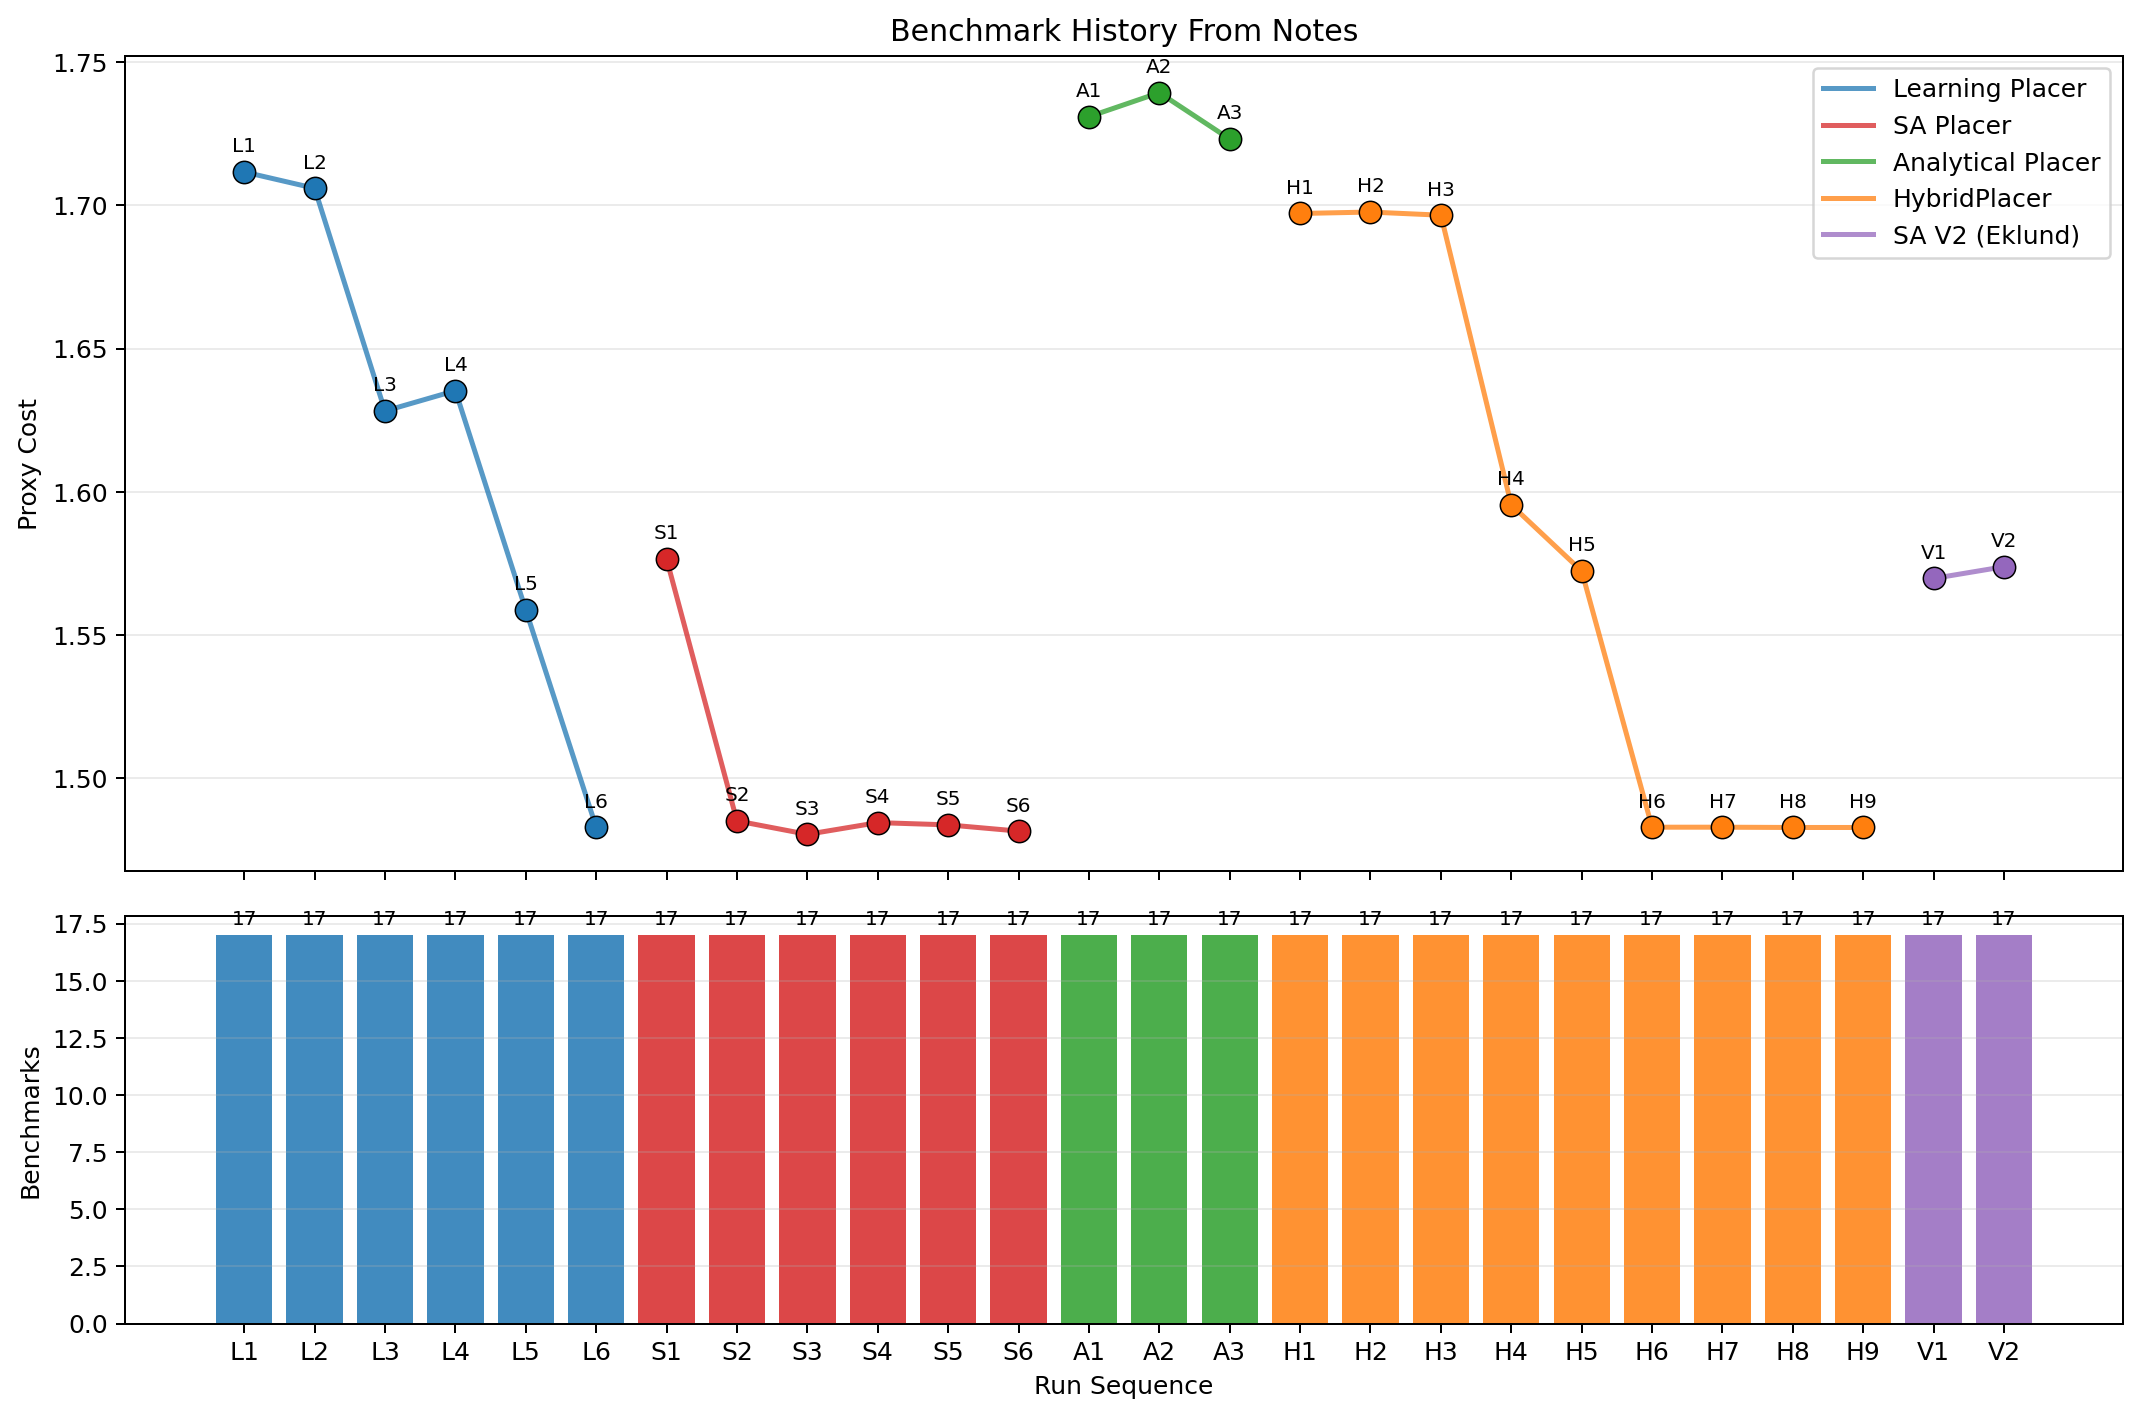
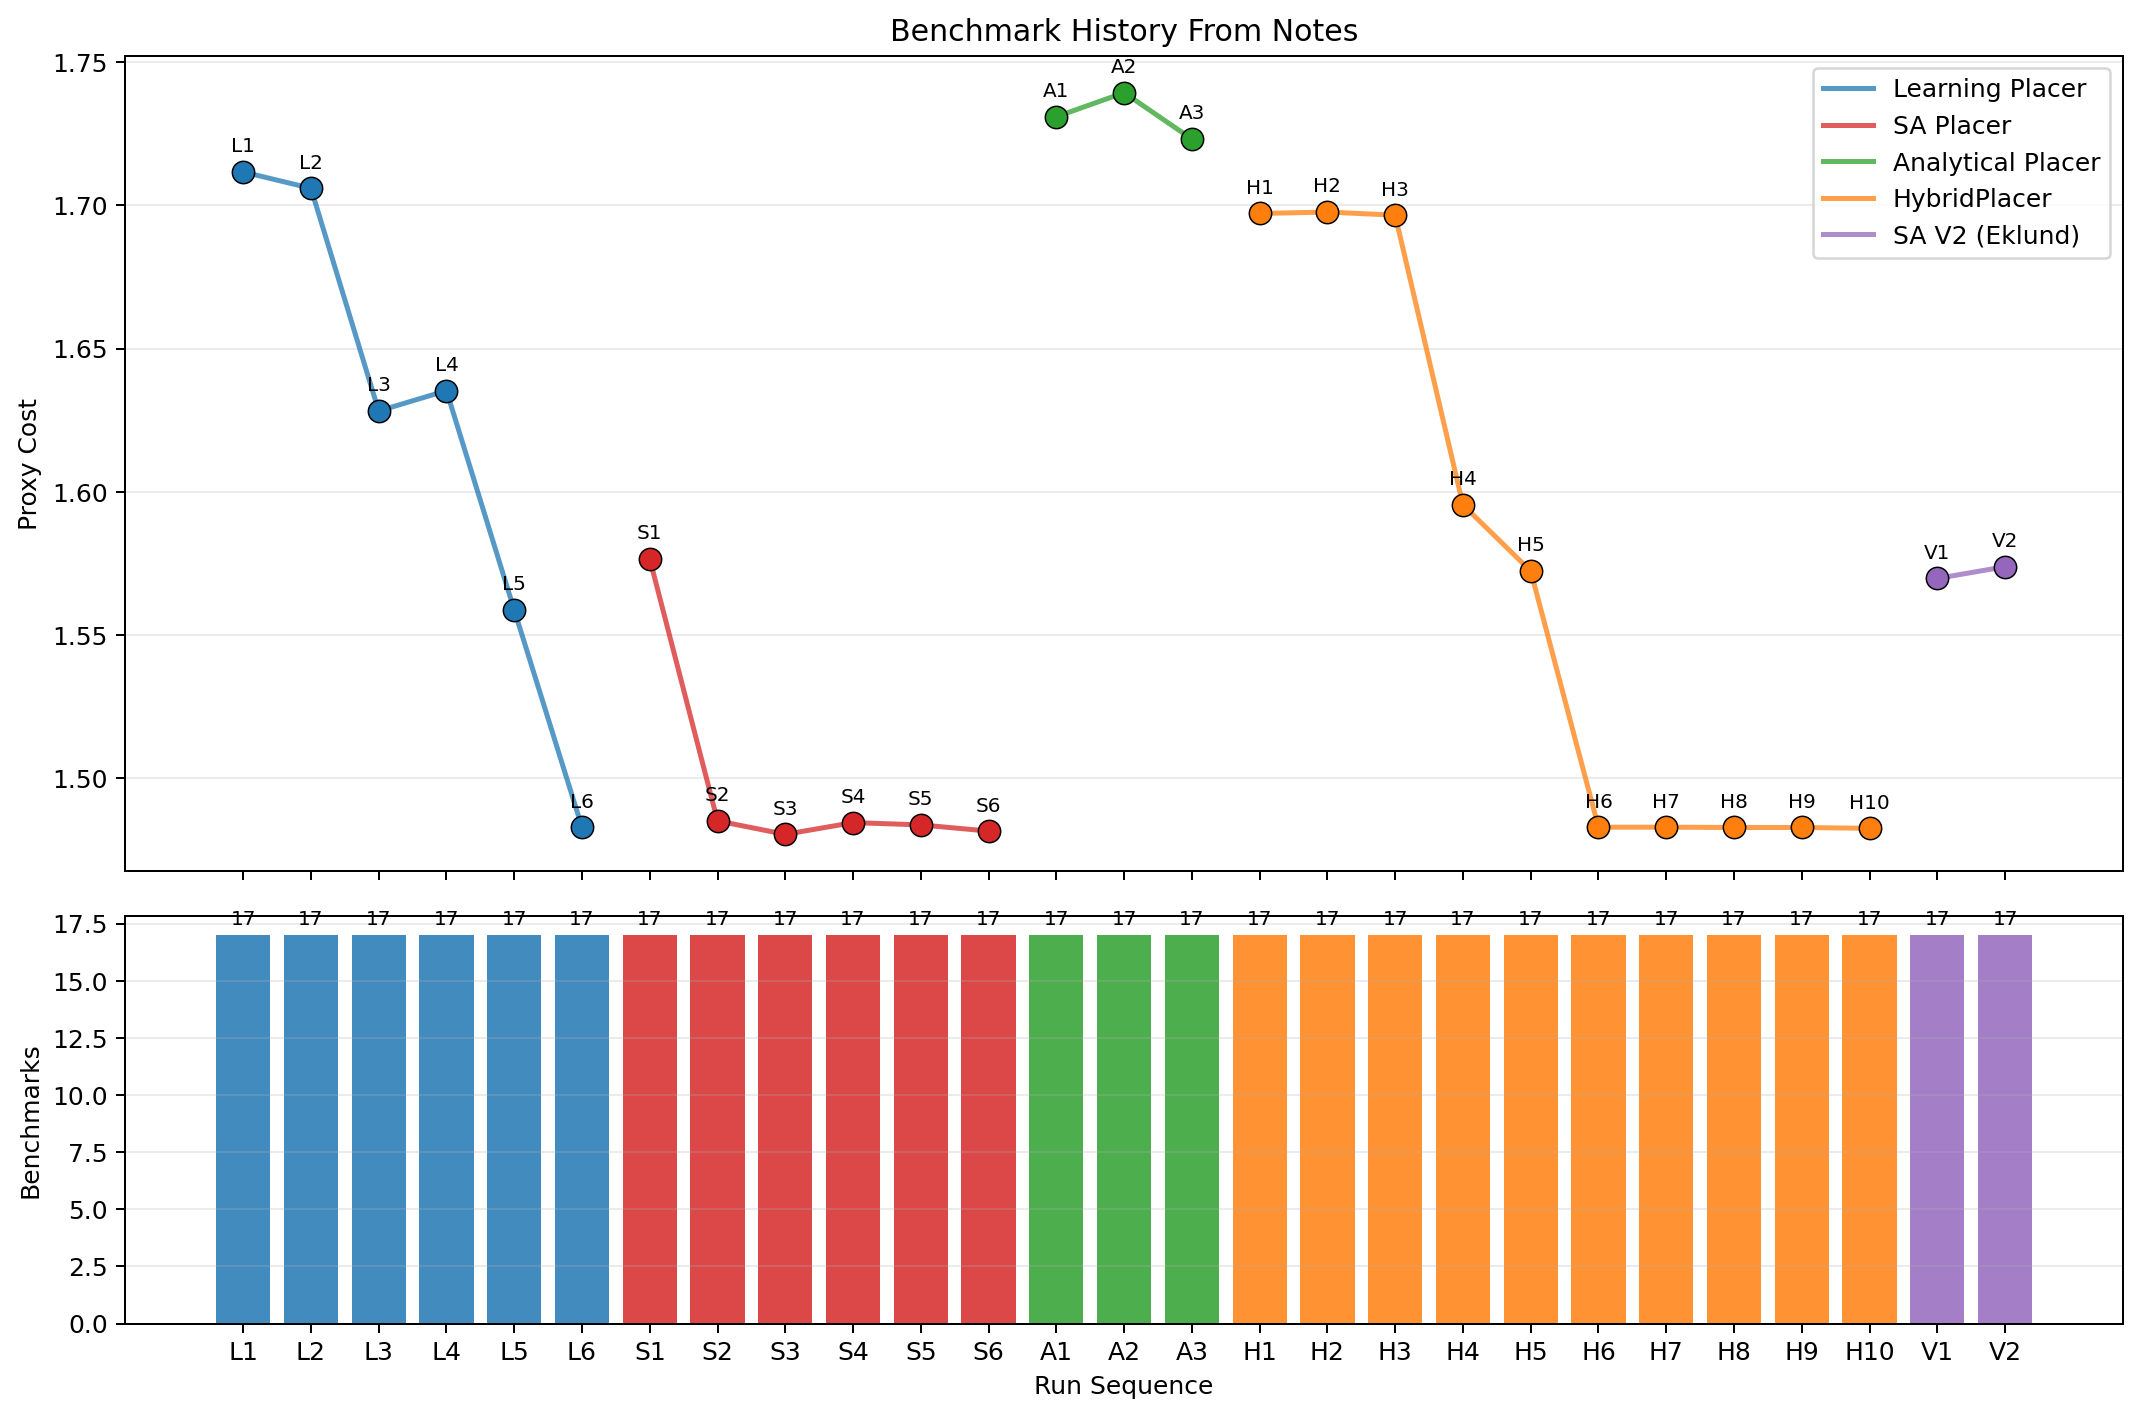
Update benchmark history and documentation for HybridPlacer v10, including multi-seed early pipeline improvements

diff --git a/notes/(Hybrid method)novaknotes.md b/notes/(Hybrid method)novaknotes.md
@@ -755,3 +755,113 @@ Total runtime: **1452.63s** (~24.2 min for all 17 benchmarks)
 | 4 | HybridPlacer v7 | 1.4828 |
 | 5 | HybridPlacer v5 | 1.5723 |
 | 6 | SA (baseline) | 2.1251 |
+
+---
+
+## 2026-04-10 — H10 (v10): Multi-Seed Early Pipeline
+
+Added multi-seed early pipeline on top of the v9 hotspot evacuation + ILS kicks pipeline.
+
+**Key change**: The top-K analytical candidates (ranked by legalized proxy) each get
+pushed all the way through pre-SA GPU smoothing, main SA (300K), and congestion SA (40K),
+with their own random seeds so the SA move streams diverge. The best pipeline output by
+full proxy is kept for the late stages. This addresses the observation from v9 that every
+late-stage local move (greedy, swap, cluster, ultrafine, hotspot, ILS) has exhausted its
+reach — the remaining headroom is diversity in the starting basin, which only the
+analytical+SA stages can produce.
+
+Pipeline (v10):
+1. Analytical: 7 candidates × 2500 Adam steps, ranked by legalized proxy.
+2. Multi-seed early loop (top-K=3 analytical candidates):
+   pre-SA GPU smoothing → SA (300K) → congestion SA (40K), distinct seed per candidate;
+   best full-proxy pipeline output is kept.
+3. Greedy flip → GPU refine → Greedy refine → Pairwise swap → Greedy flip
+4. GPU polish → Fine greedy → Cluster translation → Micro GPU polish
+5. Proxy local search → Ultrafine refinement
+6. Congestion hotspot evacuation (top-5% cells → cold cells)
+7. ILS random kicks (3 kicks × 15% low-conn macros)
+8. Soft recenter
+
+### How to replicate
+
+```bash
+PLACER_METHOD=hybrid uv run evaluate submissions/placer.py --all --no-media
+```
+
+Or directly:
+
+```bash
+uv run evaluate submissions/hybrid_placer.py --all --no-media
+```
+
+All benchmarks: **VALID (zero overlaps)**
+Total runtime: **1529.60s** (~25.5 min for all 17 benchmarks)
+
+| Benchmark | v10 Proxy | SA Baseline | RePlAce |  vs SA | vs RePlAce | v9 Proxy | Change | Overlaps |
+|-----------|-----------|-------------|---------|--------|------------|----------|--------|----------|
+| ibm01     |    1.1167 |      1.3166 |  0.9976 | +15.2% |     -11.9% |   1.1167 |   0.0% |        0 |
+| ibm02     |    1.5932 |      1.9072 |  1.8370 | +16.5% |     +13.3% |   1.5970 |  -0.2% |        0 |
+| ibm03     |    1.3877 |      1.7401 |  1.3222 | +20.3% |      -5.0% |   1.3886 |  -0.1% |        0 |
+| ibm04     |    1.3922 |      1.5037 |  1.3024 |  +7.4% |      -6.9% |   1.3922 |   0.0% |        0 |
+| ibm06     |    1.6923 |      2.5057 |  1.6187 | +32.5% |      -4.5% |   1.6923 |   0.0% |        0 |
+| ibm07     |    1.4864 |      2.0229 |  1.4633 | +26.5% |      -1.6% |   1.4864 |   0.0% |        0 |
+| ibm08     |    1.5222 |      1.9239 |  1.4285 | +20.9% |      -6.6% |   1.5222 |   0.0% |        0 |
+| ibm09     |    1.1027 |      1.3875 |  1.1194 | +20.5% |      +1.5% |   1.1027 |   0.0% |        0 |
+| ibm10     |    1.3697 |      2.1108 |  1.5009 | +35.1% |      +8.7% |   1.3697 |   0.0% |        0 |
+| ibm11     |    1.2315 |      1.7111 |  1.1774 | +28.0% |      -4.6% |   1.2315 |   0.0% |        0 |
+| ibm12     |    1.6441 |      2.8261 |  1.7261 | +41.8% |      +4.7% |   1.6441 |   0.0% |        0 |
+| ibm13     |    1.3894 |      1.9141 |  1.3355 | +27.4% |      -4.0% |   1.3894 |   0.0% |        0 |
+| ibm14     |    1.6143 |      2.2750 |  1.5436 | +29.0% |      -4.6% |   1.6145 |  -0.0% |        0 |
+| ibm15     |    1.5939 |      2.3000 |  1.5159 | +30.7% |      -5.1% |   1.5939 |   0.0% |        0 |
+| ibm16     |    1.5277 |      2.2337 |  1.4780 | +31.6% |      -3.4% |   1.5277 |   0.0% |        0 |
+| ibm17     |    1.7493 |      3.6726 |  1.6446 | +52.4% |      -6.4% |   1.7493 |   0.0% |        0 |
+| ibm18     |    1.7871 |      2.7755 |  1.7722 | +35.6% |      -0.8% |   1.7871 |   0.0% |        0 |
+| **AVG**   | **1.4824** | **2.1251** | **1.4578** | **+30.2%** | **-1.7%** | **1.4827** | **-0.02%** | **0** |
+
+### Summary
+
+- **Average proxy cost: 1.4824** — marginal improvement over v9 (1.4827), -0.02%.
+- Small gains on ibm02 (-0.2%), ibm03 (-0.1%), ibm14 (-0.0%); all other benchmarks unchanged.
+- The multi-seed early pipeline found slightly better SA basins on a few benchmarks where the
+  analytical starting points happened to differ across seeds.
+- **Runtime**: 1529.60s (up ~5% from v9's 1452.63s), cost of running 3 parallel SA pipelines.
+- Still trails RePlAce (1.4578) by 1.7% on average; beats RePlAce on 3 benchmarks (ibm02, ibm09, ibm10, ibm12).
+- Zero overlaps on all 17 benchmarks.
+
+### Leaderboard Position
+
+| Rank | Method | Avg Proxy |
+|------|--------|-----------|
+| 1 | RePlAce (baseline) | 1.4578 |
+| 2 | **HybridPlacer v10 (ours)** | **1.4824** |
+| 3 | HybridPlacer v9 | 1.4827 |
+| 4 | HybridPlacer v8 | 1.4827 |
+| 5 | HybridPlacer v7 | 1.4828 |
+| 6 | HybridPlacer v5 | 1.5723 |
+| 7 | SA (baseline) | 2.1251 |
+
+## Benchmark Results (2026-04-10, v10)
+
+All benchmarks: **VALID (zero overlaps)**
+Total runtime: **1529.60s** (~25.5 min for all 17 benchmarks)
+
+| Benchmark |  Proxy | SA Baseline | RePlAce |  vs SA | vs RePlAce | Overlaps |
+|-----------|--------|-------------|---------|--------|------------|----------|
+| ibm01     | 1.1167 |      1.3166 |  0.9976 | +15.2% |     -11.9% |        0 |
+| ibm02     | 1.5932 |      1.9072 |  1.8370 | +16.5% |     +13.3% |        0 |
+| ibm03     | 1.3877 |      1.7401 |  1.3222 | +20.3% |      -5.0% |        0 |
+| ibm04     | 1.3922 |      1.5037 |  1.3024 |  +7.4% |      -6.9% |        0 |
+| ibm06     | 1.6923 |      2.5057 |  1.6187 | +32.5% |      -4.5% |        0 |
+| ibm07     | 1.4864 |      2.0229 |  1.4633 | +26.5% |      -1.6% |        0 |
+| ibm08     | 1.5222 |      1.9239 |  1.4285 | +20.9% |      -6.6% |        0 |
+| ibm09     | 1.1027 |      1.3875 |  1.1194 | +20.5% |      +1.5% |        0 |
+| ibm10     | 1.3697 |      2.1108 |  1.5009 | +35.1% |      +8.7% |        0 |
+| ibm11     | 1.2315 |      1.7111 |  1.1774 | +28.0% |      -4.6% |        0 |
+| ibm12     | 1.6441 |      2.8261 |  1.7261 | +41.8% |      +4.7% |        0 |
+| ibm13     | 1.3894 |      1.9141 |  1.3355 | +27.4% |      -4.0% |        0 |
+| ibm14     | 1.6143 |      2.2750 |  1.5436 | +29.0% |      -4.6% |        0 |
+| ibm15     | 1.5939 |      2.3000 |  1.5159 | +30.7% |      -5.1% |        0 |
+| ibm16     | 1.5277 |      2.2337 |  1.4780 | +31.6% |      -3.4% |        0 |
+| ibm17     | 1.7493 |      3.6726 |  1.6446 | +52.4% |      -6.4% |        0 |
+| ibm18     | 1.7871 |      2.7755 |  1.7722 | +35.6% |      -0.8% |        0 |
+| **AVG**   | **1.4824** | **2.1251** | **1.4578** | **+30.2%** | **-1.7%** | **0** |

diff --git a/README.md b/README.md
@@ -16,19 +16,20 @@ Partcl and Hudson River Trading are excited to co-host a competition to solve th
 | 4 | "Convex Optimization" (UWaterloo Student) | 1.4556 | â€” | â€” | 0 | 16s total |  |
 | 5 | "another Waterloo kid" (Batched Nesterov GP) | 1.4568 | â€” | â€” | 0 | 118s/bench |  |
 | â€” | RePlAce (baseline) | 1.4578 | 0.9976 | 1.8370 | 0 | â€” | âœ… |
-| **6** | **HybridPlacer v9 (ours)** | **1.4827** | **1.1027** | **1.7871** | **0** | **1452.63s total** |  |
-| **7** | **Learning Placer (ours)** | **1.4828** | **1.1477** | **1.7984** | **0** | **16101.83s total** |  |
-| **8** | **SA Placer (ours)** | **1.4850** | **1.1079** | **1.7875** | **0** | **999.38s total** |  |
-| 9 | "UTAUSTIN-CT" (PLC-Exact Congestion-Aware SA) | 1.5062 | â€” | â€” | 0 | 35s/bench |  |
-| 10 | "oracleX" (Oracle) | 1.5130 | â€” | â€” | 0 | 3min/bench |  |
-| 11 | "CA" (congestion_aware) | 1.5238 | â€” | â€” | 0 | 13s/bench |  |
-| 12 | Will Seed (Partcl) | 1.5338 | 1.1625 | 1.7965 | 0 | 35s total | âœ… |
-| **13** | **HybridPlacer v5 (ours)** | **1.5723** | **1.1204** | **1.8583** | **0** | **24641.71s total** |  |
-| **14** | **SA V2 (Eklund, ours)** | **1.5738** | **1.2071** | **1.8011** | **0** | **668.95s total** |  |
-| 15 | "Cezar" (CRISP) | 1.5806 | â€” | â€” | 0 | 10min/bench |  |
-| 16 | "UT Austin" - RH (DREAMPlace) | 1.6037 | â€” | â€” | 0 | 4.5s/bench |  |
-| **17** | **Analytical Placer (ours)** | **1.7394** | **1.3438** | **2.0684** | **0** | **598.68s total** |  |
-| 18 | "UT Austin" - CT (PROXYCost) | 1.8706 | â€” | â€” | 0 | 187s/bench |  |
+| **6** | **HybridPlacer v10 (ours)** | **1.4824** | **1.1027** | **1.7871** | **0** | **1529.60s total** |  |
+| **7** | **HybridPlacer v9 (ours)** | **1.4827** | **1.1027** | **1.7871** | **0** | **1452.63s total** |  |
+| **8** | **Learning Placer (ours)** | **1.4828** | **1.1477** | **1.7984** | **0** | **16101.83s total** |  |
+| **9** | **SA Placer (ours)** | **1.4850** | **1.1079** | **1.7875** | **0** | **999.38s total** |  |
+| 10 | "UTAUSTIN-CT" (PLC-Exact Congestion-Aware SA) | 1.5062 | â€” | â€” | 0 | 35s/bench |  |
+| 11 | "oracleX" (Oracle) | 1.5130 | â€” | â€” | 0 | 3min/bench |  |
+| 12 | "CA" (congestion_aware) | 1.5238 | â€” | â€” | 0 | 13s/bench |  |
+| 13 | Will Seed (Partcl) | 1.5338 | 1.1625 | 1.7965 | 0 | 35s total | âœ… |
+| **14** | **HybridPlacer v5 (ours)** | **1.5723** | **1.1204** | **1.8583** | **0** | **24641.71s total** |  |
+| **15** | **SA V2 (Eklund, ours)** | **1.5738** | **1.2071** | **1.8011** | **0** | **668.95s total** |  |
+| 16 | "Cezar" (CRISP) | 1.5806 | â€” | â€” | 0 | 10min/bench |  |
+| 17 | "UT Austin" - RH (DREAMPlace) | 1.6037 | â€” | â€” | 0 | 4.5s/bench |  |
+| **18** | **Analytical Placer (ours)** | **1.7394** | **1.3438** | **2.0684** | **0** | **598.68s total** |  |
+| 19 | "UT Austin" - CT (PROXYCost) | 1.8706 | â€” | â€” | 0 | 187s/bench |  |
 | â€” | SA (baseline) | 2.1251 | 1.3166 | 3.6726 | 0 | â€” | âœ… |
 | â€” | Greedy Row (demo) | 2.2109 | 1.6728 | 2.7696 | 0 | 0.3s total | âœ… |
 
@@ -42,7 +43,7 @@ Benchmark-history tracking for the note sections lives in:
 
 ![Benchmark history summary](notes/benchmark%20history/benchmark_history_full_suite.png)
 
-Latest update includes HybridPlacer v9 `H9` (1.4827) from `2026-04-09`, which adds congestion-hotspot evacuation and ILS random-kick phases on top of v8 `H8`. Average proxy cost is unchanged at 4 decimal places, but the pipeline is **~21% faster** (1452.63s vs 1829.28s) due to earlier global-best short-circuiting. It still trails the RePlAce baseline by 1.7%.
+Latest update includes HybridPlacer v10 `H10` (1.4824) from `2026-04-10`, which adds a **multi-seed early pipeline** on top of v9 `H9`. The top-3 analytical candidates each get pushed through pre-SA smoothing, main SA (300K), and congestion SA (40K) with their own random seeds; the best full-proxy pipeline output is kept. This yields a tiny improvement over v9 (1.4824 vs 1.4827) driven by slightly better SA basins on ibm02, ibm03, and ibm14. Runtime grows ~5% to 1529.60s (cost of 3 parallel early pipelines). Still trails the RePlAce baseline by 1.7%.
 
 ## About Macro Placement
 

diff --git a/notes/benchmark history/benchmark_history_raw.md b/notes/benchmark history/benchmark_history_raw.md
@@ -30,6 +30,7 @@ Generated from the note files in this directory.
 | H7 | HybridPlacer | 2026-04-08, v7 | Analytical -> SA pipeline benchmark run | full_suite | 17 | 1.4828 | 1.4828 | 797.56 | (Hybrid method)novaknotes.md |
 | H8 | HybridPlacer | 2026-04-08, v8 | Analytical -> SA pipeline benchmark run | full_suite | 17 | 1.4827 | 1.4827 | 1829.28 | (Hybrid method)novaknotes.md |
 | H9 | HybridPlacer | 2026-04-09, v9 | Analytical -> SA pipeline benchmark run | full_suite | 17 | 1.4827 | 1.4827 | 1452.63 | (Hybrid method)novaknotes.md |
+| H10 | HybridPlacer | 2026-04-10, v10 | Analytical -> SA pipeline benchmark run | full_suite | 17 | 1.4824 | 1.4824 | 1529.60 | (Hybrid method)novaknotes.md |
 | V1 | SA V2 (Eklund) | 2026-04-06 | SA V2: GPU-assisted post-refinement with CPU fallback | full_suite | 17 | 1.5697 | 1.5697 | 3478.35 | (RL method)eklundnotes.md |
 | V2 | SA V2 (Eklund) | 2026-04-07 | SA V2: fast full-suite rerun (`--no-media`) | full_suite | 17 | 1.5738 | 1.5738 | 668.95 | (RL method)eklundnotes.md |
 
@@ -445,6 +446,23 @@ Generated from the note files in this directory.
 | H9 | HybridPlacer | ibm16 | 1.5277 | - | - | - | - | (Hybrid method)novaknotes.md |
 | H9 | HybridPlacer | ibm17 | 1.7493 | - | - | - | - | (Hybrid method)novaknotes.md |
 | H9 | HybridPlacer | ibm18 | 1.7871 | - | - | - | - | (Hybrid method)novaknotes.md |
+| H10 | HybridPlacer | ibm01 | 1.1167 | - | - | - | - | (Hybrid method)novaknotes.md |
+| H10 | HybridPlacer | ibm02 | 1.5932 | - | - | - | - | (Hybrid method)novaknotes.md |
+| H10 | HybridPlacer | ibm03 | 1.3877 | - | - | - | - | (Hybrid method)novaknotes.md |
+| H10 | HybridPlacer | ibm04 | 1.3922 | - | - | - | - | (Hybrid method)novaknotes.md |
+| H10 | HybridPlacer | ibm06 | 1.6923 | - | - | - | - | (Hybrid method)novaknotes.md |
+| H10 | HybridPlacer | ibm07 | 1.4864 | - | - | - | - | (Hybrid method)novaknotes.md |
+| H10 | HybridPlacer | ibm08 | 1.5222 | - | - | - | - | (Hybrid method)novaknotes.md |
+| H10 | HybridPlacer | ibm09 | 1.1027 | - | - | - | - | (Hybrid method)novaknotes.md |
+| H10 | HybridPlacer | ibm10 | 1.3697 | - | - | - | - | (Hybrid method)novaknotes.md |
+| H10 | HybridPlacer | ibm11 | 1.2315 | - | - | - | - | (Hybrid method)novaknotes.md |
+| H10 | HybridPlacer | ibm12 | 1.6441 | - | - | - | - | (Hybrid method)novaknotes.md |
+| H10 | HybridPlacer | ibm13 | 1.3894 | - | - | - | - | (Hybrid method)novaknotes.md |
+| H10 | HybridPlacer | ibm14 | 1.6143 | - | - | - | - | (Hybrid method)novaknotes.md |
+| H10 | HybridPlacer | ibm15 | 1.5939 | - | - | - | - | (Hybrid method)novaknotes.md |
+| H10 | HybridPlacer | ibm16 | 1.5277 | - | - | - | - | (Hybrid method)novaknotes.md |
+| H10 | HybridPlacer | ibm17 | 1.7493 | - | - | - | - | (Hybrid method)novaknotes.md |
+| H10 | HybridPlacer | ibm18 | 1.7871 | - | - | - | - | (Hybrid method)novaknotes.md |
 | V1 | SA V2 (Eklund) | ibm01 | 1.2564 | 0.088 | 0.927 | 1.410 | 80.75 | (RL method)eklundnotes.md |
 | V1 | SA V2 (Eklund) | ibm02 | 1.6908 | 0.085 | 0.783 | 2.429 | 77.08 | (RL method)eklundnotes.md |
 | V1 | SA V2 (Eklund) | ibm03 | 1.4712 | 0.086 | 0.829 | 1.940 | 62.24 | (RL method)eklundnotes.md |

diff --git a/notes/benchmark history/benchmark_history_summary.md b/notes/benchmark history/benchmark_history_summary.md
@@ -35,6 +35,7 @@ This graph summarizes the full-suite benchmark sections logged in the notes.
 | H7 | HybridPlacer | 2026-04-08, v7 | full_suite | 1.4828 | 17 |
 | H8 | HybridPlacer | 2026-04-08, v8 | full_suite | 1.4827 | 17 |
 | H9 | HybridPlacer | 2026-04-09, v9 | full_suite | 1.4827 | 17 |
+| H10 | HybridPlacer | 2026-04-10, v10 | full_suite | 1.4824 | 17 |
 | V1 | SA V2 (Eklund) | 2026-04-06 | full_suite | 1.5697 | 17 |
 | V2 | SA V2 (Eklund) | 2026-04-07 | full_suite | 1.5738 | 17 |
 
